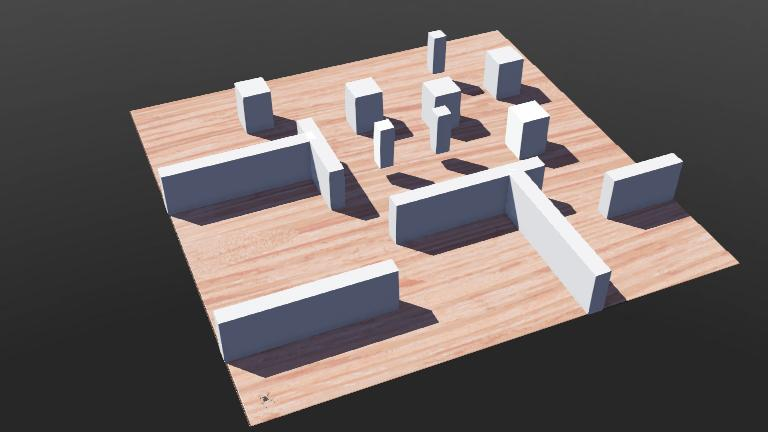
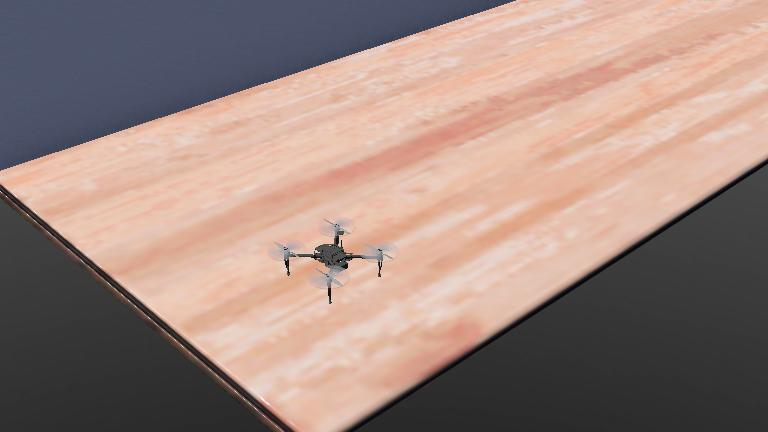
【fix】修改了一些格式绘图问题

diff --git a/logs/plot_log.py b/logs/plot_log.py
@@ -2,15 +2,15 @@ import pandas as pd
 import matplotlib.pyplot as plt
 
 import os
-plt.rcParams['font.sans-serif'] = ['SimSun']
+plt.rcParams["font.family"] = ["Times New Roman", "SimSun"]
 # 全局字体大小设置
 plt.rcParams.update({
-    'font.size': 18,        # 全局字体
-    'axes.titlesize': 20,   # 标题字体
+    'font.size': 20,        # 全局字体
+    'axes.titlesize': 18,   # 标题字体
     'axes.labelsize': 18,   # 坐标轴标签
-    'xtick.labelsize': 16,  # X轴刻度
-    'ytick.labelsize': 16,  # Y轴刻度
-    'legend.fontsize': 18,  # 图例
+    'xtick.labelsize': 18,  # X轴刻度
+    'ytick.labelsize': 18,  # Y轴刻度
+    'legend.fontsize': 20,  # 图例
 })
 
 # === 修改这里 ===
@@ -18,6 +18,13 @@ current_dir = os.path.dirname(os.path.abspath(__file__))
 CSV_FILE = os.path.join(current_dir, 'astar_test_log.csv')
 
 FIELDS_TO_PLOT = [
+    # "target_angle_roll",
+    # "measure_angle_roll"
+    # "target_angle_yaw",
+    # "measure_angle_yaw"
+    # "target_speed_x",
+    # "measure_speed_x"
+
     # "target_speed_z",
     # "measure_speed_z"
     "measure_liner_speed"
@@ -48,8 +55,8 @@ def plot_data(df, fields):
         else:
             print(f"⚠ 字段不存在: {field}")
     plt.xlabel("Timestamp(s)")
-    plt.ylabel("Value(m/s)")
-    plt.title("速度随时间关系")
+    plt.ylabel("Speed(m/s)")
+    # plt.title("Roll轴姿态控制器阶跃响应")
     plt.legend()
     plt.grid(True)
     plt.tight_layout()

diff --git a/map_generator/test/catmull_rom_test.py b/map_generator/test/catmull_rom_test.py
@@ -1,6 +1,14 @@
 import numpy as np
 import matplotlib.pyplot as plt
 plt.rcParams["font.family"] = ["Times New Roman", "SimSun"]
+plt.rcParams.update({
+    'font.size': 18,        # 全局字体
+    'axes.titlesize': 20,   # 标题字体
+    'axes.labelsize': 18,   # 坐标轴标签
+    'xtick.labelsize': 20,  # X轴刻度
+    'ytick.labelsize': 20,  # Y轴刻度
+    'legend.fontsize': 18,  # 图例
+})
 def catmull_rom(p0, p1, p2, p3, num_points=20):
     """
     计算一段 Catmull-Rom 样条上的插值点
@@ -52,7 +60,7 @@ plt.figure(figsize=(8, 6))
 control_points = np.array(control_points)
 plt.plot(control_points[:, 0], control_points[:, 1], 'ro--', label='原始路径')
 plt.plot(smooth_curve[:, 0], smooth_curve[:, 1], 'b-', label='Catmull-Rom 平滑路径')
-plt.title('Catmull-Rom 样条路径平滑')
+# plt.title('Catmull-Rom 样条路径平滑')
 plt.legend()
 plt.axis('equal')
 plt.grid(True)
